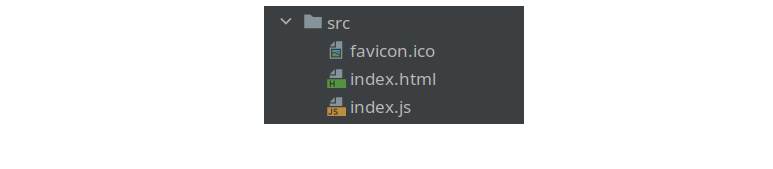
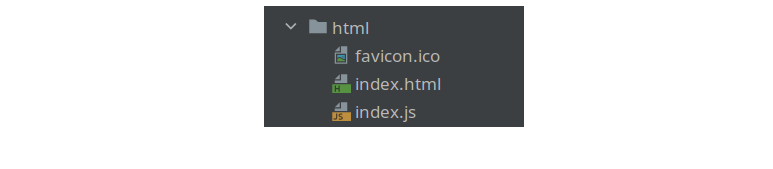
update 6

Changed region(s): [[0.3415, 0.4142, 0.6831, 0.7692], [0.4036, 0.2367, 0.5899, 0.3846], [0.3415, 0.0888, 0.4968, 0.2071]]

diff --git a/README.md b/README.md
@@ -9,22 +9,23 @@
 # Frontend
 
 1. Фронтенд реализован в виде **SPA**: имеется единственный HTML-файл с вёрсткой, и JS-скрипт
-   для динамической подгрузки данных с бэкенда. Использован **AngularJS**:  
+   для динамической подгрузки данных с бэкенда. Использован **AngularJS**. Структура файлов такая:  
    ![](https://github.com/aleksey-nsk/currency_converter_frontend/blob/master/screenshots/01_1_structure.png)  
    
-2. Для локального запуска используем контейнер с **NGINX**. Настройки прописываем в файле **docker-compose.yaml**:  
+2. Для локального запуска используем контейнер с **NGINX**. Настройки прописываем  
+   в файле **docker-compose.yaml**:  
    ![](https://github.com/aleksey-nsk/currency_converter_frontend/blob/master/screenshots/02_1_docker.png)  
 
-   Установка Веб-сервера предполагает, что мы хотим с его помощью получать и просматривать html-страницы сайта.
-   Появляется вопрос: каким образом можно передать в контейнер какие-либо html-файлы? В этом нам помогут volumes.
-   **Директива volumes** говорит, что происходит монтирование локальной папки **./html** в контейнер по
-   адресу **/usr/share/nginx/html**. При монтировании папка по указанному адресу внутри контейнера заменяется
-   папкой с локального компьютера.  
+   _Установка Веб-сервера предполагает, что мы хотим с его помощью получать и просматривать  
+   html-страницы сайта. Появляется вопрос: каким образом можно передать в контейнер какие-либо  
+   html-файлы? В этом нам помогут volumes. **Директива volumes** говорит, что происходит монтирование локальной
+   папки **./html** в контейнер по адресу **/usr/share/nginx/html**. При монтировании папка по указанному адресу
+   внутри контейнера заменяется папкой с локального компьютера_.  
       
-   Важно заметить, что монтированная папка доступна для изменений в реальном времени. Т.е. если мы изменим
+   _Важно заметить, что монтированная папка доступна для изменений **в реальном времени**. Т.е. если мы изменим
    текст в файле index.html или добавим новый файл в папку, то все эти изменения сразу же будут доступны внутри
    контейнера. Это важная функция и она позволяет вести разработку через докер. Мы вносим изменения на своём
-   компьютере в примонтированные файлы и папки, и они сразу же отображаются в контейнере.
+   компьютере в примонтированные файлы и папки, и они сразу же отображаются в контейнере_.
    
 3. Сначала необходимо запустить локально [проект с бэкендом](https://github.com/aleksey-nsk/currency_converter_backend).
    Далее в проекте с фронтендом стартуем контейнер с nginx и открываем в браузере адрес http://localhost:8099/    
@@ -45,4 +46,4 @@
 
 - Далее надо через консоль залогиниться на **Docker Hub**
 
-- Теперь запустим файл **build_and_push.sh**. Будет создан образ для фронтенда и загружен на **Docker Hub**
+- Теперь запустим файл **build_and_push.sh**. Создастся образ для фронтенда и загрузится на **Docker Hub**
